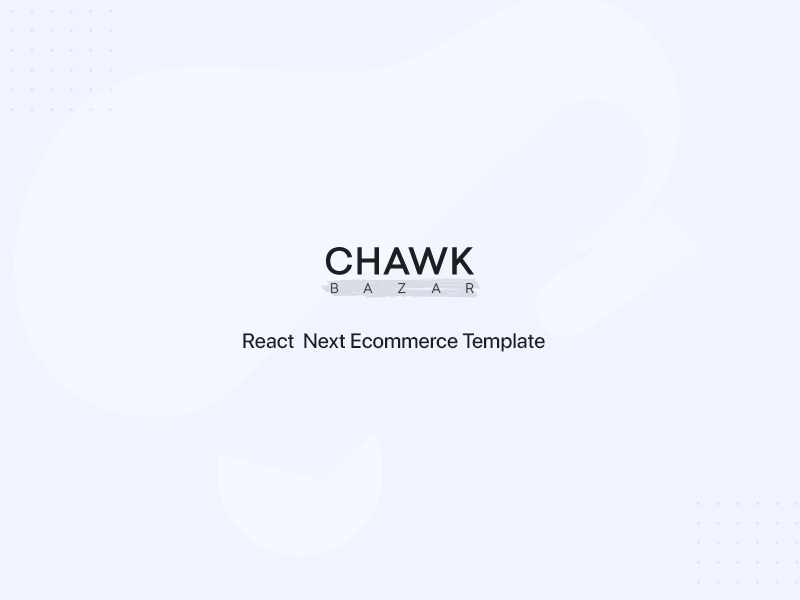
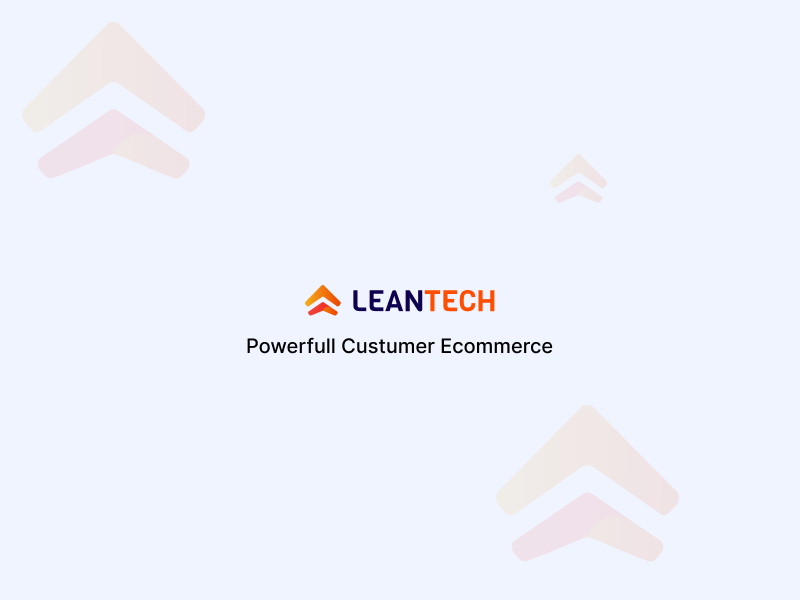
Ecomerce information PWA

diff --git a/src/components/layout/layout-two.tsx b/src/components/layout/layout-two.tsx
@@ -20,12 +20,12 @@ const Layout: React.FC = ({ children }) => {
 						content: "width=device-width, initial-scale=1.0",
 					},
 				]}
-				title="ChawkBazar React - React Next E-commerce Template"
+				title="Lean-commerce"
 				description="Fastest E-commerce template built with React, NextJS, TypeScript, React-Query and Tailwind CSS."
-				canonical="https://chawkbazar.vercel.app/"
+				canonical="https://lean-commerce.vercel.app/"
 				openGraph={{
-					url: "https://chawkbazar.vercel.app",
-					title: "ChawkBazar React - React Next E-commerce Template",
+					url: "https://lean-commerce.vercel.app",
+					title: "Lean-commerce",
 					description:
 						"Fastest E-commerce template built with React, NextJS, TypeScript, React-Query and Tailwind CSS.",
 					images: [

diff --git a/src/components/layout/layout.tsx b/src/components/layout/layout.tsx
@@ -20,12 +20,12 @@ const Layout: React.FC = ({ children }) => {
 						content: "width=device-width, initial-scale=1.0",
 					},
 				]}
-				title="ChawkBazar React - React Next E-commerce Template"
+				title="LeanCommerce"
 				description="Fastest E-commerce template built with React, NextJS, TypeScript, React-Query and Tailwind CSS."
-				canonical="https://chawkbazar.vercel.app/"
+				canonical="https://lean-commerce.vercel.app/"
 				openGraph={{
-					url: "https://chawkbazar.vercel.app",
-					title: "ChawkBazar React - React Next E-commerce Template",
+					url: "https://lean-commerce.vercel.app",
+					title: "LeanCommerce",
 					description:
 						"Fastest E-commerce template built with React, NextJS, TypeScript, React-Query and Tailwind CSS.",
 					images: [

diff --git a/src/settings/site-settings.tsx b/src/settings/site-settings.tsx
@@ -15,7 +15,7 @@ export const siteSettings = {
   },
   logo: {
     url: "/assets/images/logo.svg",
-    alt: "ChawkBazar",
+    alt: "LeanCommerce",
     href: "/",
     width: 95,
     height: 30,
